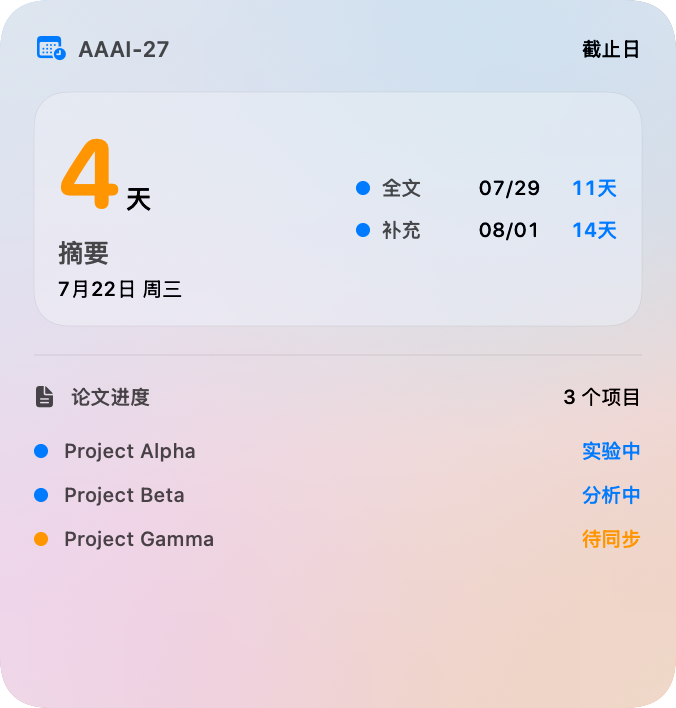
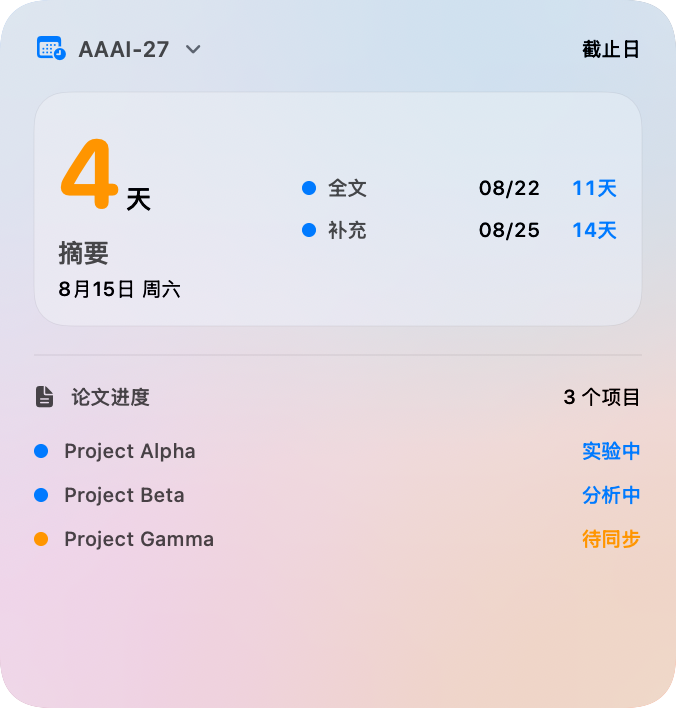
Add conference switcher to AI Deadline widget

diff --git a/Deadline/DeadlineWidget.swift b/Deadline/DeadlineWidget.swift
@@ -1,6 +1,7 @@
 // SPDX-License-Identifier: GPL-3.0-or-later
 
 import Foundation
+import AppIntents
 import SwiftUI
 import WidgetKit
 
@@ -40,6 +41,71 @@ struct PaperStatus: Decodable, Identifiable {
 struct DeadlineEntry: TimelineEntry {
     let date: Date
     let snapshot: DeadlineSnapshot
+    let selectedConferenceName: String?
+    let isConferenceMenuOpen: Bool
+
+    init(
+        date: Date,
+        snapshot: DeadlineSnapshot,
+        selectedConferenceName: String? = nil,
+        isConferenceMenuOpen: Bool = false
+    ) {
+        self.date = date
+        self.snapshot = snapshot
+        self.selectedConferenceName = selectedConferenceName
+        self.isConferenceMenuOpen = isConferenceMenuOpen
+    }
+}
+
+private enum ConferenceSelection {
+    static let selectedNameKey = "AIDeadlineSelectedConferenceName"
+    static let menuOpenKey = "AIDeadlineConferenceMenuOpen"
+
+    static var selectedName: String? {
+        let value = UserDefaults.standard.string(forKey: selectedNameKey)
+        return value?.isEmpty == false ? value : nil
+    }
+
+    static var isMenuOpen: Bool {
+        UserDefaults.standard.bool(forKey: menuOpenKey)
+    }
+}
+
+struct ToggleConferenceMenuIntent: AppIntent {
+    static let title: LocalizedStringResource = "展开会议列表"
+    static let description = IntentDescription("展开或收起 AI Deadline 组件中的会议列表。")
+    static var openAppWhenRun: Bool { false }
+
+    func perform() async throws -> some IntentResult {
+        let defaults = UserDefaults.standard
+        defaults.set(!defaults.bool(forKey: ConferenceSelection.menuOpenKey), forKey: ConferenceSelection.menuOpenKey)
+        WidgetCenter.shared.reloadAllTimelines()
+        return .result()
+    }
+}
+
+struct SelectDeadlineConferenceIntent: AppIntent {
+    static let title: LocalizedStringResource = "切换会议"
+    static let description = IntentDescription("切换 AI Deadline 组件当前显示的会议。")
+    static var openAppWhenRun: Bool { false }
+
+    @Parameter(title: "会议") var conferenceName: String
+
+    init() {
+        conferenceName = ""
+    }
+
+    init(conferenceName: String) {
+        self.conferenceName = conferenceName
+    }
+
+    func perform() async throws -> some IntentResult {
+        let defaults = UserDefaults.standard
+        defaults.set(conferenceName, forKey: ConferenceSelection.selectedNameKey)
+        defaults.set(false, forKey: ConferenceSelection.menuOpenKey)
+        WidgetCenter.shared.reloadAllTimelines()
+        return .result()
+    }
 }
 
 struct DeadlineProvider: TimelineProvider {
@@ -48,12 +114,23 @@ struct DeadlineProvider: TimelineProvider {
     }
 
     func getSnapshot(in context: Context, completion: @escaping (DeadlineEntry) -> Void) {
-        completion(DeadlineEntry(date: .now, snapshot: loadSnapshot() ?? .preview))
+        completion(makeEntry(snapshot: loadSnapshot() ?? .preview))
     }
 
     func getTimeline(in context: Context, completion: @escaping (Timeline<DeadlineEntry>) -> Void) {
         let snapshot = loadSnapshot() ?? .preview
-        completion(Timeline(entries: [DeadlineEntry(date: .now, snapshot: snapshot)], policy: .after(.now.addingTimeInterval(60))))
+        completion(Timeline(entries: [makeEntry(snapshot: snapshot)], policy: .after(.now.addingTimeInterval(60))))
+    }
+
+    private func makeEntry(snapshot: DeadlineSnapshot) -> DeadlineEntry {
+        let availableNames = Set(snapshot.conferences.map(\.name))
+        let selectedName = ConferenceSelection.selectedName.flatMap { availableNames.contains($0) ? $0 : nil }
+        return DeadlineEntry(
+            date: .now,
+            snapshot: snapshot,
+            selectedConferenceName: selectedName,
+            isConferenceMenuOpen: ConferenceSelection.isMenuOpen
+        )
     }
 
     private func loadSnapshot() -> DeadlineSnapshot? {
@@ -84,6 +161,24 @@ extension DeadlineSnapshot {
                     PaperStatus(id: "project-beta", title: "Project Beta", status: "分析中", owner: nil, updatedAt: nil),
                     PaperStatus(id: "project-gamma", title: "Project Gamma", status: "待同步", owner: nil, updatedAt: nil)
                 ]
+            ),
+            ConferenceRecord(
+                name: "CVPR 2027",
+                deadlines: [],
+                papers: []
+            ),
+            ConferenceRecord(
+                name: "ICLR 2027",
+                deadlines: [
+                    DeadlineRecord(title: "摘要", dueAt: ISO8601DateFormatter().string(from: .now.addingTimeInterval(32 * 86_400))),
+                    DeadlineRecord(title: "全文", dueAt: ISO8601DateFormatter().string(from: .now.addingTimeInterval(37 * 86_400)))
+                ],
+                papers: []
+            ),
+            ConferenceRecord(
+                name: "NeurIPS 2027",
+                deadlines: [],
+                papers: []
             )
         ],
         error: nil
@@ -142,20 +237,33 @@ private func statusColor(_ status: String) -> Color {
 private struct DeadlineHeader: View {
     let name: String
     let hasError: Bool
+    let isMenuOpen: Bool
+    var compact: Bool = false
 
     var body: some View {
         HStack(spacing: 7) {
-            Image(systemName: "calendar.badge.clock")
-                .font(.system(size: 12, weight: .semibold))
-                .foregroundStyle(hasError ? .red : .blue)
-            Text(name)
-                .font(.subheadline.weight(.semibold))
+            Button(intent: ToggleConferenceMenuIntent()) {
+                HStack(spacing: 7) {
+                    Image(systemName: "calendar.badge.clock")
+                        .font(.system(size: 12, weight: .semibold))
+                        .foregroundStyle(hasError ? .red : .blue)
+                    Text(name)
+                        .font(.subheadline.weight(.semibold))
+                        .lineLimit(1)
+                    Image(systemName: isMenuOpen ? "chevron.up" : "chevron.down")
+                        .font(.system(size: 8, weight: .bold))
+                        .foregroundStyle(.secondary)
+                }
+                .contentShape(Rectangle())
+            }
+            .buttonStyle(.plain)
+            .accessibilityLabel(isMenuOpen ? "收起会议列表" : "切换会议，当前为 \(name)")
             Spacer()
             if hasError {
                 Image(systemName: "exclamationmark.triangle.fill")
                     .font(.caption)
                     .foregroundStyle(.red)
-            } else {
+            } else if !compact {
                 Text("截止日")
                     .font(.caption2.weight(.medium))
                     .foregroundStyle(.secondary)
@@ -312,7 +420,11 @@ struct DeadlineWidgetView: View {
     var previewFamily: WidgetFamily? = nil
 
     private var conference: ConferenceRecord {
-        entry.snapshot.conferences.first(where: { !$0.deadlines.isEmpty })
+        if let selectedName = entry.selectedConferenceName,
+           let selected = entry.snapshot.conferences.first(where: { $0.name == selectedName }) {
+            return selected
+        }
+        return entry.snapshot.conferences.first(where: { !$0.deadlines.isEmpty })
             ?? entry.snapshot.conferences.first
             ?? ConferenceRecord(name: "AI Deadline", deadlines: [], papers: [])
     }
@@ -320,29 +432,100 @@ struct DeadlineWidgetView: View {
     private var upcoming: [DatedDeadline] { conference.datedDeadlines(after: entry.date) }
 
     var body: some View {
-        Group {
-            switch previewFamily ?? family {
-            case .systemSmall: smallView
-            case .systemLarge: largeView
-            default: mediumView
+        ZStack(alignment: .topLeading) {
+            Group {
+                switch previewFamily ?? family {
+                case .systemSmall: smallView
+                case .systemLarge: largeView
+                default: mediumView
+                }
+            }
+            if entry.isConferenceMenuOpen {
+                conferenceMenu
+                    .transition(.opacity)
+                    .zIndex(2)
             }
         }
         .modifier(DeadlineWidgetContainer(enabled: previewFamily == nil))
         .modifier(DeadlineWidgetLink(enabled: previewFamily == nil))
     }
 
-    private var emptyState: some View {
-        ContentUnavailableView {
-            Label("暂无截止日", systemImage: "calendar")
-        } description: {
-            Text("同步状态后会显示在这里")
+    private var conferenceMenu: some View {
+        let isSmall = (previewFamily ?? family) == .systemSmall
+        return VStack(alignment: .leading, spacing: 2) {
+            ForEach(entry.snapshot.conferences) { candidate in
+                Button(intent: SelectDeadlineConferenceIntent(conferenceName: candidate.name)) {
+                    HStack(spacing: 7) {
+                        Image(systemName: "checkmark")
+                            .font(.system(size: 9, weight: .bold))
+                            .foregroundStyle(.blue)
+                            .opacity(candidate.name == conference.name ? 1 : 0)
+                            .frame(width: 11)
+                        Text(candidate.name)
+                            .font(isSmall ? .caption2.weight(.semibold) : .caption.weight(.semibold))
+                            .lineLimit(1)
+                            .minimumScaleFactor(0.82)
+                        Spacer(minLength: isSmall ? 3 : 6)
+                        if let next = candidate.datedDeadlines(after: entry.date).first {
+                            Text("\(dayCount(to: next.date, from: entry.date))天")
+                                .font(.caption2.monospacedDigit().weight(.medium))
+                                .foregroundStyle(.secondary)
+                        } else {
+                            Text("TBA")
+                                .font(.caption2.weight(.medium))
+                                .foregroundStyle(.secondary)
+                        }
+                    }
+                    .padding(.horizontal, 8)
+                    .frame(height: isSmall ? 23 : 25)
+                    .background(candidate.name == conference.name ? Color.blue.opacity(0.12) : Color.clear)
+                    .clipShape(RoundedRectangle(cornerRadius: 7, style: .continuous))
+                    .contentShape(Rectangle())
+                }
+                .buttonStyle(.plain)
+            }
         }
+        .padding(5)
+        .frame(width: isSmall ? 142 : 178)
+        .background(.regularMaterial, in: RoundedRectangle(cornerRadius: 11, style: .continuous))
+        .overlay {
+            RoundedRectangle(cornerRadius: 11, style: .continuous)
+                .stroke(.primary.opacity(0.12), lineWidth: 0.5)
+        }
+        .padding(.top, isSmall ? 36 : 39)
+        .padding(.leading, isSmall ? 9 : 13)
+        .accessibilityElement(children: .contain)
+        .accessibilityLabel("会议列表")
+    }
+
+    private var emptyState: some View {
+        VStack(alignment: .leading, spacing: 8) {
+            DeadlineHeader(
+                name: conference.name,
+                hasError: entry.snapshot.error != nil,
+                isMenuOpen: entry.isConferenceMenuOpen,
+                compact: (previewFamily ?? family) == .systemSmall
+            )
+            Spacer(minLength: 0)
+            ContentUnavailableView {
+                Label("暂无截止日", systemImage: "calendar")
+            } description: {
+                Text("官网待公布或当前阶段已结束")
+            }
+            Spacer(minLength: 0)
+        }
+        .padding((previewFamily ?? family) == .systemSmall ? 12 : 17)
     }
 
     @ViewBuilder private var smallView: some View {
         if let next = upcoming.first {
             VStack(alignment: .leading, spacing: 8) {
-                DeadlineHeader(name: conference.name, hasError: entry.snapshot.error != nil)
+                DeadlineHeader(
+                    name: conference.name,
+                    hasError: entry.snapshot.error != nil,
+                    isMenuOpen: entry.isConferenceMenuOpen,
+                    compact: true
+                )
                 Spacer(minLength: 0)
                 CountdownHero(deadline: next, now: entry.date, compact: true)
                     .frame(maxWidth: .infinity, alignment: .leading)
@@ -357,7 +540,7 @@ struct DeadlineWidgetView: View {
             }
             .padding(14)
         } else {
-            emptyState.padding(12)
+            emptyState
         }
     }
 
@@ -365,7 +548,12 @@ struct DeadlineWidgetView: View {
         if let next = upcoming.first {
             HStack(spacing: 16) {
                 VStack(alignment: .leading, spacing: 8) {
-                    DeadlineHeader(name: conference.name, hasError: entry.snapshot.error != nil)
+                    DeadlineHeader(
+                        name: conference.name,
+                        hasError: entry.snapshot.error != nil,
+                        isMenuOpen: entry.isConferenceMenuOpen,
+                        compact: true
+                    )
                     Spacer(minLength: 0)
                     CountdownHero(deadline: next, now: entry.date, compact: false)
                 }
@@ -387,14 +575,18 @@ struct DeadlineWidgetView: View {
             }
             .padding(16)
         } else {
-            emptyState.padding(12)
+            emptyState
         }
     }
 
     @ViewBuilder private var largeView: some View {
         if let next = upcoming.first {
             VStack(alignment: .leading, spacing: 14) {
-                DeadlineHeader(name: conference.name, hasError: entry.snapshot.error != nil)
+                DeadlineHeader(
+                    name: conference.name,
+                    hasError: entry.snapshot.error != nil,
+                    isMenuOpen: entry.isConferenceMenuOpen
+                )
                 HStack(alignment: .center, spacing: 14) {
                     CountdownHero(deadline: next, now: entry.date, compact: false)
                         .frame(width: 108, alignment: .leading)
@@ -424,7 +616,7 @@ struct DeadlineWidgetView: View {
             }
             .padding(17)
         } else {
-            emptyState.padding(12)
+            emptyState
         }
     }
 }

diff --git a/PreviewRenderer.swift b/PreviewRenderer.swift
@@ -77,9 +77,13 @@ struct PreviewRenderer {
 #else
         let snapshot = loadJSON(DeadlineSnapshot.self, path: snapshotPath) ?? .preview
         let entry = DeadlineEntry(date: .now, snapshot: snapshot)
+        let menuEntry = DeadlineEntry(date: .now, snapshot: snapshot, isConferenceMenuOpen: true)
         try render(DeadlineWidgetView(entry: entry, previewFamily: .systemSmall), size: CGSize(width: 158, height: 158), name: "deadline-small", output: output)
         try render(DeadlineWidgetView(entry: entry, previewFamily: .systemMedium), size: CGSize(width: 338, height: 158), name: "deadline-medium", output: output)
         try render(DeadlineWidgetView(entry: entry, previewFamily: .systemLarge), size: CGSize(width: 338, height: 354), name: "deadline-large", output: output)
+        try render(DeadlineWidgetView(entry: menuEntry, previewFamily: .systemSmall), size: CGSize(width: 158, height: 158), name: "deadline-menu-small", output: output)
+        try render(DeadlineWidgetView(entry: menuEntry, previewFamily: .systemMedium), size: CGSize(width: 338, height: 158), name: "deadline-menu-medium", output: output)
+        try render(DeadlineWidgetView(entry: menuEntry, previewFamily: .systemLarge), size: CGSize(width: 338, height: 354), name: "deadline-menu-large", output: output)
 #endif
     }
 
